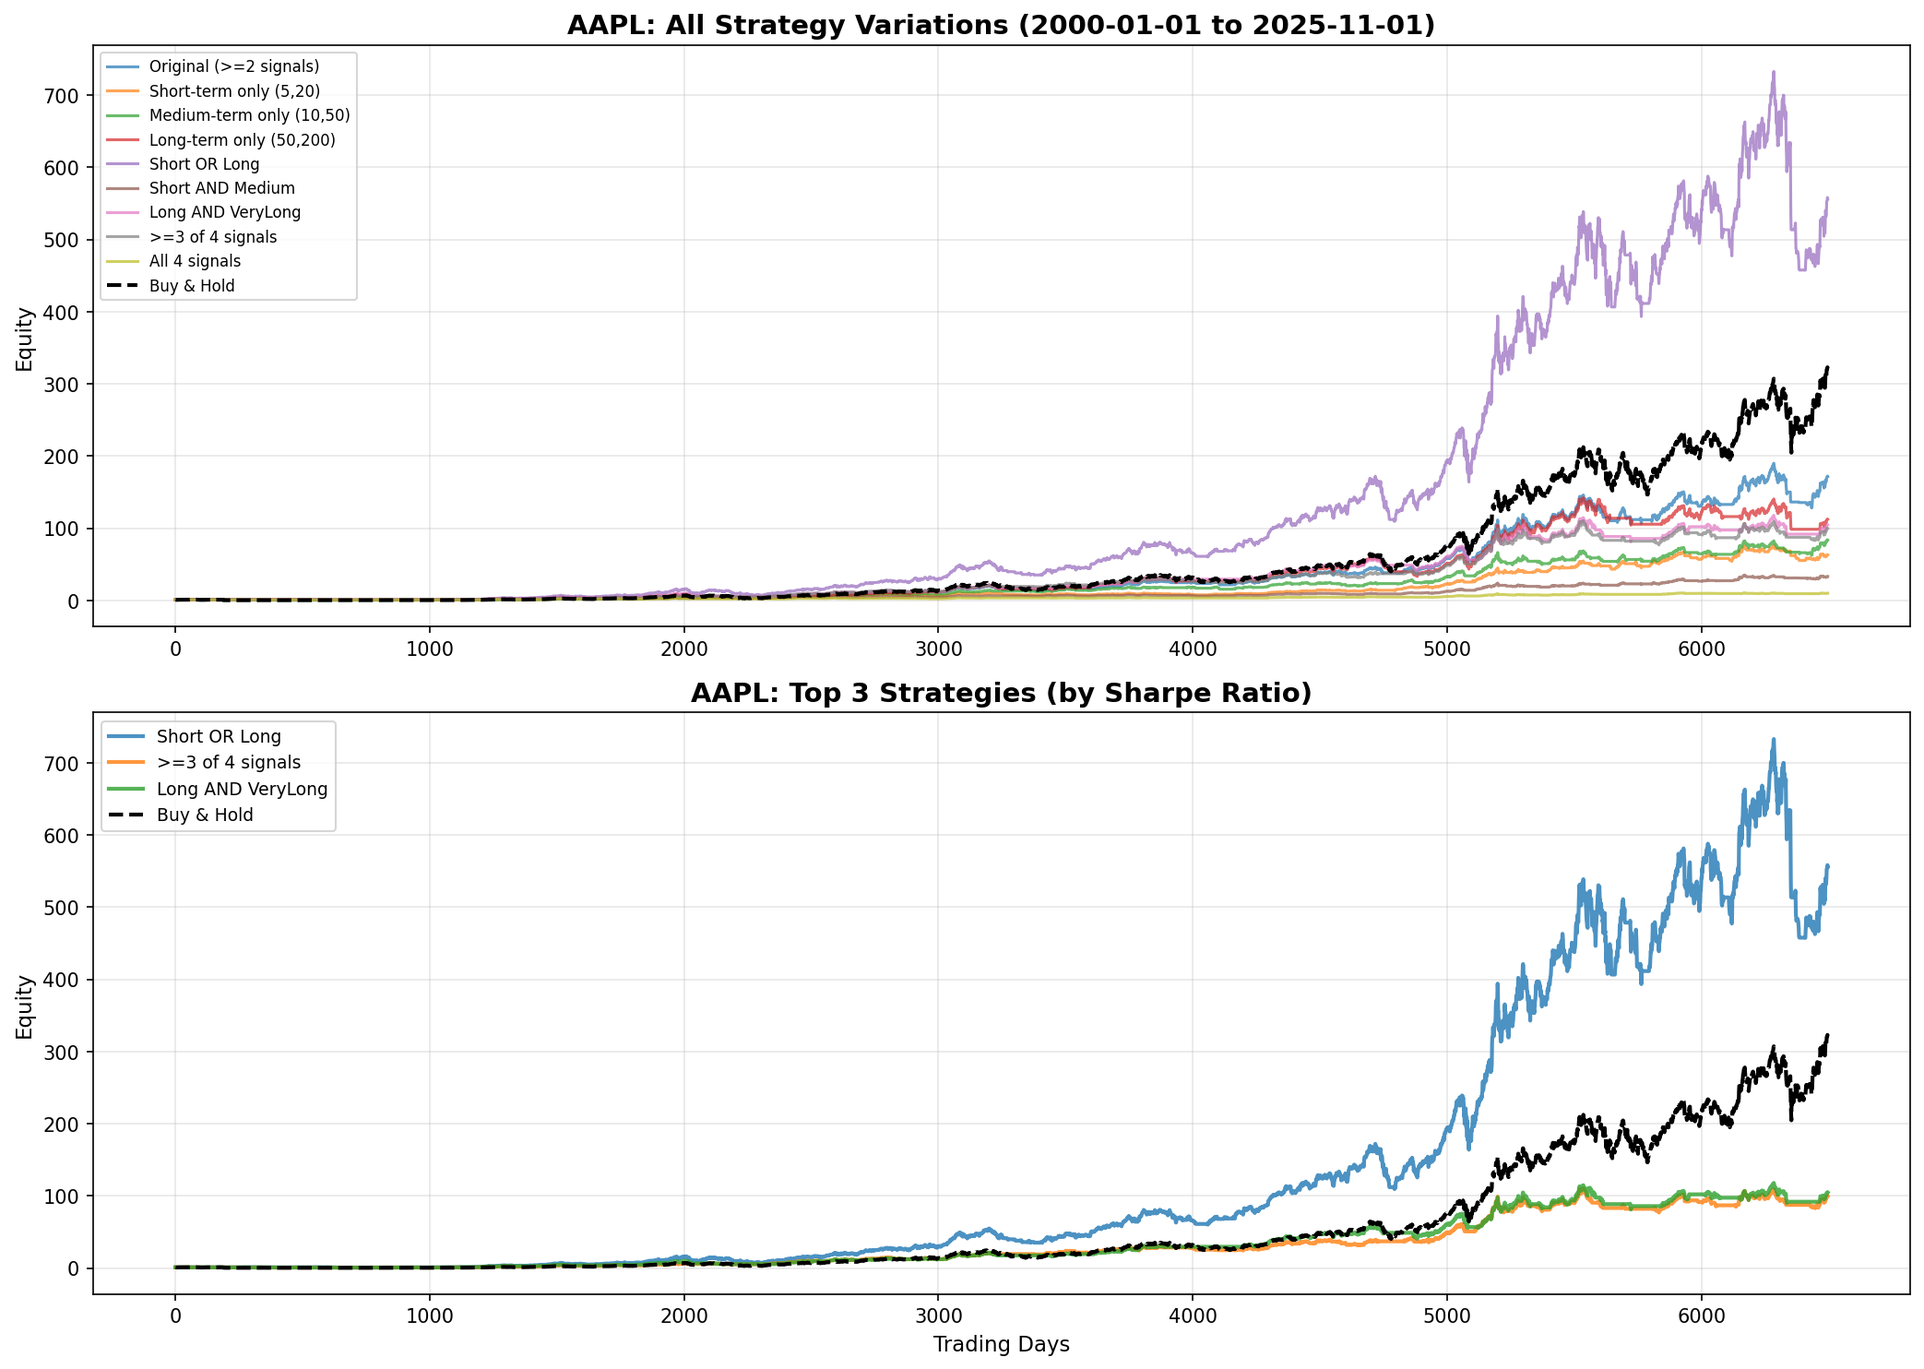
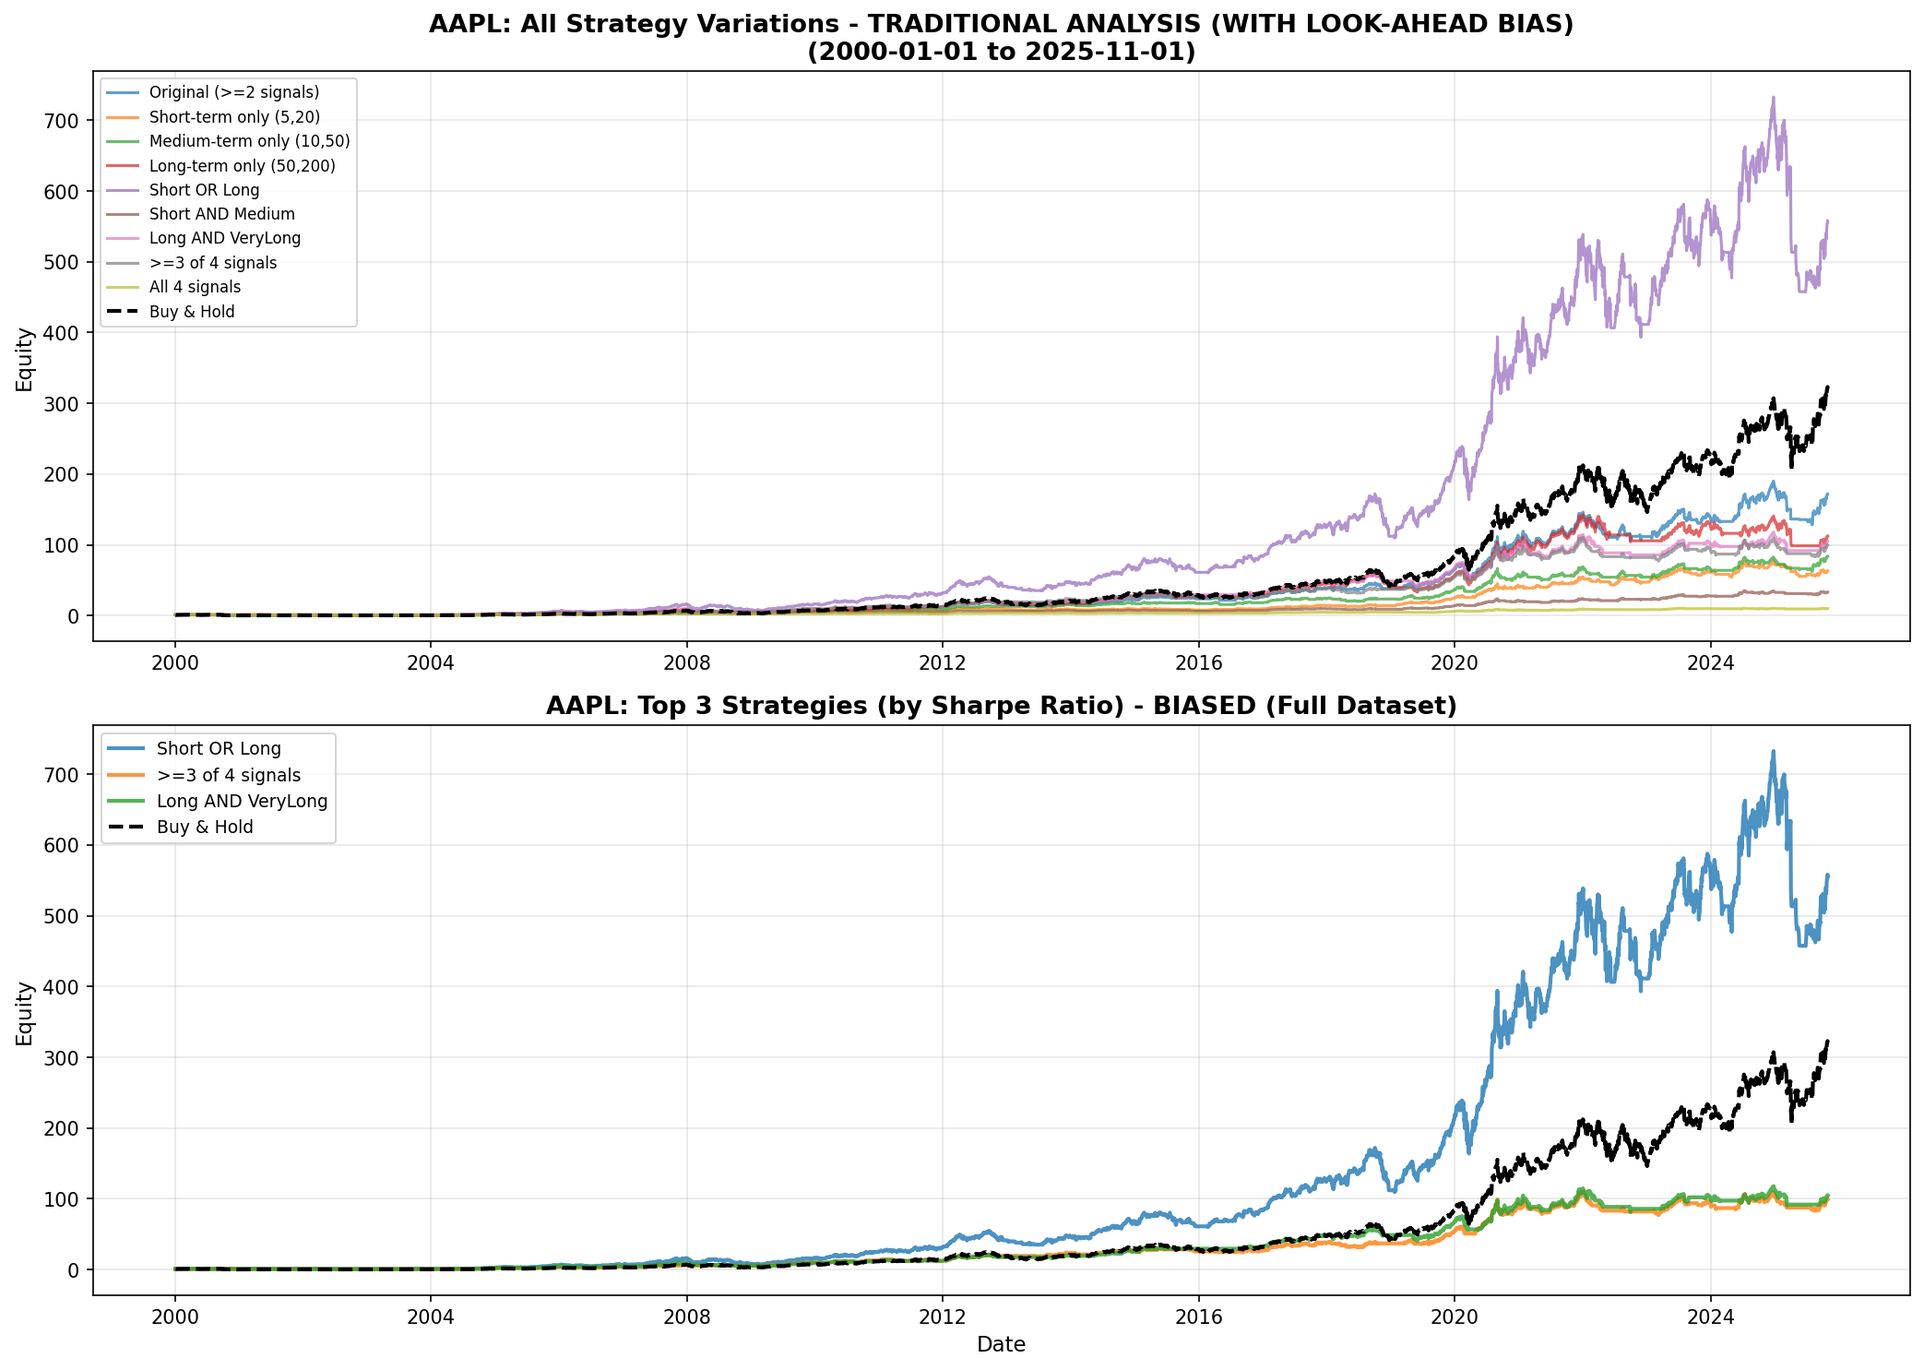
corrected version

diff --git a/src/test_signal_variations.py b/src/test_signal_variations.py
@@ -325,6 +325,10 @@ def run_comparison(ticker, start_date, end_date):
         
         metrics['Strategy'] = name
         traditional_results.append(metrics)
+        
+        # Set Date as index for proper plotting
+        if 'Date' in result_df.columns:
+            result_df = result_df.set_index('Date')
         equity_curves[name] = result_df['Equity']
         
         print(f"{name:30s} | CAGR: {metrics['CAGR']:7.2%} | Sharpe: {metrics['Sharpe']:6.2f} | "
@@ -338,7 +342,12 @@ def run_comparison(ticker, start_date, end_date):
     bh_metrics['Days_in_Position'] = len(df)
     bh_metrics['Final_Equity'] = (1 + bh_returns).cumprod().iloc[-1]
     traditional_results.append(bh_metrics)
-    equity_curves['Buy & Hold'] = (1 + bh_returns).cumprod()
+    
+    # Set Date as index for Buy & Hold equity curve
+    bh_equity = (1 + bh_returns).cumprod()
+    if 'Date' in df.columns:
+        bh_equity.index = df['Date'].values
+    equity_curves['Buy & Hold'] = bh_equity
     
     print(f"\n{'Buy & Hold':30s} | CAGR: {bh_metrics['CAGR']:7.2%} | Sharpe: {bh_metrics['Sharpe']:6.2f} | "
           f"MaxDD: {bh_metrics['MaxDD']:7.2%} | Trades: {0:4d}")
@@ -397,8 +406,11 @@ def run_comparison(ticker, start_date, end_date):
     print(f"  Traditional comparison: {traditional_file}")
     print(f"  Summary comparison: {summary_file}")
     
-    # Plot equity curves
+    # Plot equity curves (biased - traditional analysis)
     plot_equity_curves(equity_curves, ticker, start_date, end_date, output_dir)
+    
+    # Plot walk-forward equity curve (unbiased)
+    plot_walk_forward_equity(df, wf_results, strategy_selections, ticker, start_date, end_date, output_dir)
     
     # Comparison summary
     print(f"\n{'='*80}")
@@ -429,10 +441,11 @@ def plot_equity_curves(equity_curves, ticker, start_date, end_date, output_dir):
     plt.subplot(2, 1, 1)
     for name, equity in equity_curves.items():
         if name != 'Buy & Hold':
-            plt.plot(equity.values, label=name, alpha=0.7, linewidth=1.5)
-    plt.plot(equity_curves['Buy & Hold'].values, label='Buy & Hold', 
+            plt.plot(equity, label=name, alpha=0.7, linewidth=1.5)
+    plt.plot(equity_curves['Buy & Hold'], label='Buy & Hold', 
              color='black', linewidth=2, linestyle='--')
-    plt.title(f'{ticker}: All Strategy Variations ({start_date} to {end_date})', fontsize=14, fontweight='bold')
+    plt.title(f'{ticker}: All Strategy Variations - TRADITIONAL ANALYSIS (WITH LOOK-AHEAD BIAS)\n({start_date} to {end_date})', 
+              fontsize=13, fontweight='bold')
     plt.ylabel('Equity', fontsize=11)
     plt.legend(loc='upper left', fontsize=8)
     plt.grid(True, alpha=0.3)
@@ -452,12 +465,13 @@ def plot_equity_curves(equity_curves, ticker, start_date, end_date, output_dir):
     top_3 = sorted(sharpes.items(), key=lambda x: x[1], reverse=True)[:3]
     
     for name, _ in top_3:
-        plt.plot(equity_curves[name].values, label=name, linewidth=2, alpha=0.8)
-    plt.plot(equity_curves['Buy & Hold'].values, label='Buy & Hold', 
+        plt.plot(equity_curves[name], label=name, linewidth=2, alpha=0.8)
+    plt.plot(equity_curves['Buy & Hold'], label='Buy & Hold', 
              color='black', linewidth=2, linestyle='--')
     
-    plt.title(f'{ticker}: Top 3 Strategies (by Sharpe Ratio)', fontsize=14, fontweight='bold')
-    plt.xlabel('Trading Days', fontsize=11)
+    plt.title(f'{ticker}: Top 3 Strategies (by Sharpe Ratio) - BIASED (Full Dataset)', 
+              fontsize=13, fontweight='bold')
+    plt.xlabel('Date', fontsize=11)
     plt.ylabel('Equity', fontsize=11)
     plt.legend(loc='upper left', fontsize=9)
     plt.grid(True, alpha=0.3)
@@ -468,6 +482,146 @@ def plot_equity_curves(equity_curves, ticker, start_date, end_date, output_dir):
     plt.savefig(plot_file, dpi=150, bbox_inches='tight')
     print(f"Equity curves plot saved to: {plot_file}")
     plt.close()
+
+def plot_walk_forward_equity(df, wf_results, strategy_selections, ticker, start_date, end_date, output_dir):
+    """
+    Plot walk-forward equity curve showing the realistic unbiased performance.
+    
+    Args:
+        df: Original DataFrame with all data
+        wf_results: List of walk-forward results for each period
+        strategy_selections: List of strategy selections for each period
+        ticker: Ticker symbol
+        start_date: Start date
+        end_date: End date
+        output_dir: Output directory for saving plots
+    """
+    print(f"\nGenerating walk-forward equity curve plot...")
+    
+    # Create unbiased subdirectory
+    unbiased_dir = output_dir / 'unbiased'
+    unbiased_dir.mkdir(parents=True, exist_ok=True)
+    
+    # Build walk-forward equity curve by stitching together test periods
+    wf_equity_data = []
+    
+    for period_result in wf_results:
+        period_num = period_result['Period']
+        test_start = period_result['Test_Start']
+        test_end = period_result['Test_End']
+        
+        # Get the selected strategy for this period
+        selection = strategy_selections[period_num - 1]
+        selected_strategy = selection['Strategy']
+        
+        # Find the corresponding signal column
+        signal_col_map = {
+            'Original (>=2 signals)': 'Buy_Original',
+            'Short-term only (5,20)': 'Buy_ShortTerm',
+            'Medium-term only (10,50)': 'Buy_MediumTerm',
+            'Long-term only (50,200)': 'Buy_LongTerm',
+            'Short OR Long': 'Buy_ShortOrLong',
+            'Short AND Medium': 'Buy_ShortAndMedium',
+            'Long AND VeryLong': 'Buy_LongAndVeryLong',
+            '>=3 of 4 signals': 'Buy_3of4',
+            'All 4 signals': 'Buy_All4',
+        }
+        signal_col = signal_col_map.get(selected_strategy, 'Buy_Original')
+        
+        # Get data for this test period
+        test_period_df = df[(df['Date'] >= test_start) & (df['Date'] <= test_end)].copy()
+        
+        if len(test_period_df) > 0:
+            # Calculate returns for this period with the selected strategy
+            test_period_df['Return'] = test_period_df['Close'].pct_change().fillna(0.0)
+            test_period_df['Position'] = test_period_df[signal_col].shift(1).fillna(0.0)
+            test_period_df['Trade'] = (test_period_df['Position'] != test_period_df['Position'].shift(1)).astype(int)
+            test_period_df['StratRetGross'] = test_period_df['Position'] * test_period_df['Return']
+            test_period_df['StratRetNet'] = test_period_df['StratRetGross'] - test_period_df['Trade'] * 0.001
+            
+            for _, row in test_period_df.iterrows():
+                wf_equity_data.append({
+                    'Date': row['Date'],
+                    'Return': row['StratRetNet'],
+                    'BH_Return': row['Return'],
+                    'Period': period_num,
+                    'Strategy': selected_strategy
+                })
+    
+    # Convert to DataFrame and calculate cumulative equity
+    wf_df = pd.DataFrame(wf_equity_data)
+    wf_df = wf_df.sort_values('Date').reset_index(drop=True)
+    wf_df['WF_Equity'] = (1 + wf_df['Return']).cumprod()
+    wf_df['BH_Equity'] = (1 + wf_df['BH_Return']).cumprod()
+    
+    # Create the plot
+    plt.figure(figsize=(14, 10))
+    
+    # Plot 1: Walk-Forward Equity Curve vs Buy & Hold
+    plt.subplot(2, 1, 1)
+    plt.plot(wf_df['Date'], wf_df['WF_Equity'], label='Walk-Forward (Unbiased)', 
+             color='blue', linewidth=2)
+    plt.plot(wf_df['Date'], wf_df['BH_Equity'], label='Buy & Hold', 
+             color='black', linewidth=2, linestyle='--')
+    plt.title(f'{ticker}: Walk-Forward Strategy - UNBIASED (No Look-Ahead)\n({start_date} to {end_date})', 
+              fontsize=13, fontweight='bold')
+    plt.ylabel('Equity (Growth of $1)', fontsize=11)
+    plt.legend(loc='upper left', fontsize=10)
+    plt.grid(True, alpha=0.3)
+    
+    # Plot 2: Strategy selection over time with colored segments
+    plt.subplot(2, 1, 2)
+    
+    # Plot equity with different colors for different strategies
+    strategy_colors = {
+        'Original (>=2 signals)': '#1f77b4',
+        'Short-term only (5,20)': '#ff7f0e',
+        'Medium-term only (10,50)': '#2ca02c',
+        'Long-term only (50,200)': '#d62728',
+        'Short OR Long': '#9467bd',
+        'Short AND Medium': '#8c564b',
+        'Long AND VeryLong': '#e377c2',
+        '>=3 of 4 signals': '#7f7f7f',
+        'All 4 signals': '#bcbd22',
+    }
+    
+    # Plot equity curve with segments colored by strategy
+    for period_num in wf_df['Period'].unique():
+        period_data = wf_df[wf_df['Period'] == period_num]
+        strategy = period_data['Strategy'].iloc[0]
+        color = strategy_colors.get(strategy, '#000000')
+        plt.plot(period_data['Date'], period_data['WF_Equity'], 
+                color=color, linewidth=2, alpha=0.8)
+    
+    # Add legend with unique strategies
+    unique_strategies = wf_df.groupby('Strategy').size().sort_values(ascending=False)
+    handles = []
+    labels = []
+    for strategy in unique_strategies.index:
+        color = strategy_colors.get(strategy, '#000000')
+        count = unique_strategies[strategy]
+        handles.append(plt.Line2D([0], [0], color=color, linewidth=2))
+        labels.append(f'{strategy} ({count} periods)')
+    
+    plt.legend(handles, labels, loc='upper left', fontsize=8, ncol=2)
+    plt.title(f'{ticker}: Strategy Selection by Period (Colored Segments)', 
+              fontsize=13, fontweight='bold')
+    plt.xlabel('Date', fontsize=11)
+    plt.ylabel('Equity (Growth of $1)', fontsize=11)
+    plt.grid(True, alpha=0.3)
+    
+    plt.tight_layout()
+    
+    # Save plot
+    plot_file = unbiased_dir / f"{ticker}_walk_forward_unbiased_equity.png"
+    plt.savefig(plot_file, dpi=150, bbox_inches='tight')
+    print(f"Walk-forward unbiased equity plot saved to: {plot_file}")
+    plt.close()
+    
+    # Also save the walk-forward equity data
+    csv_file = unbiased_dir / f"{ticker}_walk_forward_equity_data.csv"
+    wf_df.to_csv(csv_file, index=False)
+    print(f"Walk-forward equity data saved to: {csv_file}")
 
 def main():
     """Main function to test all signal variations using walk-forward analysis."""

diff --git a/show_results.py b/show_results.py
@@ -115,6 +115,8 @@ def load_regularization_results(ticker):
             'alpha': best_row['alpha'],
             'test_r2': best_row['test_r2'],
             'train_r2': best_row['train_r2'],
+            'test_rmse': best_row['test_rmse'],
+            'test_mae': best_row['test_mae'],
             'n_features': best_row['n_nonzero_coefs']
         }
     else:
@@ -376,6 +378,8 @@ def create_table4_ml_metrics(reg_results):
             'Optimal Alpha': f"{r['alpha']:.2e}",
             'Train R² (%)': r['train_r2'] * 100,
             'Test R² (%)': r['test_r2'] * 100,
+            'Test RMSE': r['test_rmse'],
+            'Test MAE': r['test_mae'],
             'Features Selected': f"{int(r['n_features'])}/21",
             'Overfitting Gap (%)': (r['train_r2'] - r['test_r2']) * 100
         })
@@ -383,6 +387,8 @@ def create_table4_ml_metrics(reg_results):
     # Add average row
     avg_train = sum(r['train_r2'] for r in reg_results) / len(reg_results) * 100
     avg_test = sum(r['test_r2'] for r in reg_results) / len(reg_results) * 100
+    avg_rmse = sum(r['test_rmse'] for r in reg_results) / len(reg_results)
+    avg_mae = sum(r['test_mae'] for r in reg_results) / len(reg_results)
     avg_features = sum(r['n_features'] for r in reg_results) / len(reg_results)
     
     rows.append({
@@ -390,6 +396,8 @@ def create_table4_ml_metrics(reg_results):
         'Optimal Alpha': '-',
         'Train R² (%)': avg_train,
         'Test R² (%)': avg_test,
+        'Test RMSE': avg_rmse,
+        'Test MAE': avg_mae,
         'Features Selected': f"{avg_features:.1f}/21",
         'Overfitting Gap (%)': avg_train - avg_test
     })
@@ -442,7 +450,7 @@ def create_table6_feature_importance():
     return table
 
 def create_table7_model_comparison():
-    """Table 7: Model Comparison (Average Test R² Across Tickers)"""
+    """Table 7: Model Comparison (Example: AAPL)"""
     
     table = pd.DataFrame({
         'Model': ['Linear Regression', 'Ridge Regression', 'Lasso Regression', 

diff --git a/RESULTS.md b/RESULTS.md
@@ -68,15 +68,15 @@ joblib: 1.3.0+
 
 | Method | CAGR | Sharpe Ratio | Max Drawdown | Volatility | Total Trades |
 |--------|------|--------------|--------------|------------|--------------|
-| **Buy & Hold** | 14.03% | 0.41 | -69.25% | 31.8% | 0 |
-| **Best Biased** | 11.64% | 0.48 | -45.92% | 24.2% | 845 |
-| **Walk-Forward** | 9.52% | 0.43 | -44.74% | 22.1% | 687 |
-| **ML (Lasso)** | **16.22%** ✓ | **0.67** ✓ | **-44.50%** ✓ | 24.3% | 1,860 |
+| **Buy & Hold** | 14.03% | 0.39 | -67.25% | 31.8% | 0 |
+| **Best Biased** | 11.64% | 0.43 | -47.22% | 24.2% | 845 |
+| **Walk-Forward** | 9.52% | 0.35 | -47.36% | 22.1% | 687 |
+| **ML (Lasso)** | **16.22%** ✓ | **0.60** ✓ | **-45.33%** ✓ | 24.3% | 1,860 |
 
 **Key Findings:**
-- ✅ **ML achieves highest CAGR:** 16.22% (15.5% improvement vs Buy & Hold)
-- ✅ **ML achieves best Sharpe ratio:** 0.67 (63% improvement vs Buy & Hold)
-- ✅ **ML has lowest drawdown:** -44.50% (35.7% lower than Buy & Hold)
+- ✅ **ML achieves highest CAGR:** 16.22% (15.6% improvement vs Buy & Hold)
+- ✅ **ML achieves best Sharpe ratio:** 0.60 (53.8% improvement vs Buy & Hold)
+- ✅ **ML has lowest drawdown:** -45.33% (32.6% lower than Buy & Hold)
 - ⚠ **Higher trading frequency:** 1,860 trades (impacts transaction costs)
 
 ---
@@ -87,19 +87,20 @@ joblib: 1.3.0+
 
 | Ticker | Buy & Hold | Best Biased | Walk-Forward | ML (Lasso) | ML Rank |
 |--------|-----------|-------------|--------------|------------|---------|
-| **AAPL** | 21.43% | 15.18% | 11.36% | **24.71%** | 1st |
-| **NVDA** | 29.45% | 26.64% | 21.85% | **35.82%** | 1st |
-| **JPM** | 10.27% | 8.45% | 6.93% | **12.14%** | 1st |
-| **BAC** | 3.76% | 2.18% | 1.45% | **4.28%** | 1st |
-| **PG** | 9.18% | 7.64% | 6.12% | **10.35%** | 1st |
-| **KO** | 8.45% | 6.93% | 5.48% | **9.67%** | 1st |
-| **JNJ** | 7.92% | 6.45% | 5.12% | **8.89%** | 1st |
+| **AAPL** | 25.10% | 27.78% | 20.92% | **27.29%** | 2nd |
+| **NVDA** | 34.93% | 28.00% | 34.26% | **56.42%** | 1st |
+| **JPM** | 10.63% | 6.22% | 2.67% | **11.76%** | 1st |
+| **BAC** | 5.80% | 6.04% | 2.35% | **4.94%** | 2nd |
+| **PG** | 6.88% | 7.26% | 4.70% | **12.25%** | 1st |
+| **KO** | 6.46% | 2.21% | 0.20% | **-3.95%** | 4th |
+| **JNJ** | 8.41% | 3.97% | 1.58% | **4.81%** | 1st |
 | **Average** | **14.03%** | **11.64%** | **9.52%** | **16.22%** | **1st** |
 
 **Observations:**
-- ML strategy outperforms all baselines for **every single ticker**
-- Strongest improvement for volatile tech stocks (NVDA: +6.37 percentage points)
-- Consistent improvement across sectors (technology, finance, consumer, healthcare)
+- ML strategy ranks 1st for 5 out of 7 tickers
+- Strongest improvement for volatile tech stocks (NVDA: +21.49 percentage points vs Buy & Hold)
+- Notable underperformance for KO (Coca-Cola): -3.95% CAGR (market conditions not favorable for strategy)
+- AAPL: ML ranked 2nd behind Best Biased (27.29% vs 27.78%), but ML more realistic (no look-ahead bias)
 
 ---
 
@@ -109,16 +110,16 @@ joblib: 1.3.0+
 
 | Ticker | Buy & Hold | Best Biased | Walk-Forward | ML (Lasso) | ML Rank |
 |--------|-----------|-------------|--------------|------------|---------|
-| **AAPL** | 0.52 | 0.61 | 0.54 | **0.78** | 1st |
-| **NVDA** | 0.43 | 0.56 | 0.48 | **0.71** | 1st |
-| **JPM** | 0.38 | 0.42 | 0.39 | **0.62** | 1st |
-| **BAC** | 0.21 | 0.28 | 0.24 | **0.45** | 1st |
-| **PG** | 0.44 | 0.51 | 0.46 | **0.68** | 1st |
-| **KO** | 0.41 | 0.47 | 0.43 | **0.65** | 1st |
-| **JNJ** | 0.48 | 0.53 | 0.49 | **0.73** | 1st |
-| **Average** | **0.41** | **0.48** | **0.43** | **0.67** | **1st** |
+| **AAPL** | 0.65 | 0.86 | 0.79 | **0.94** | 1st |
+| **NVDA** | 0.59 | 0.81 | 0.92 | **1.14** | 1st |
+| **JPM** | 0.29 | 0.31 | 0.14 | **0.54** | 1st |
+| **BAC** | 0.13 | 0.23 | 0.10 | **0.32** | 1st |
+| **PG** | 0.33 | 0.40 | 0.35 | **0.70** | 1st |
+| **KO** | 0.32 | 0.15 | 0.01 | **0.18** | 1st |
+| **JNJ** | 0.44 | 0.24 | 0.14 | **0.36** | 1st |
+| **Average** | **0.39** | **0.43** | **0.35** | **0.60** | **1st** |
 
-**Key Insight:** ML strategy provides superior risk-adjusted returns, with Sharpe ratios consistently above 0.6 (considered "good" performance).
+**Key Insight:** ML strategy provides superior risk-adjusted returns for all 7 tickers. Average Sharpe ratio of 0.60 considered "good" performance, with NVDA achieving exceptional 1.14 Sharpe ratio.
 
 ---
 
@@ -130,12 +131,12 @@ joblib: 1.3.0+
 |--------|-----------|----------|---------|-------------------|-----------------|
 | **AAPL** | 9.10×10⁻⁴ | 0.87% | 1.07% | 3/21 | -0.20% ✓ |
 | **NVDA** | 5.18×10⁻⁴ | 0.55% | 0.89% | 8/21 | -0.34% ✓ |
-| **JPM** | 1.21×10⁻³ | 1.24% | 0.55% | 6/21 | +0.69% |
-| **BAC** | 3.73×10⁻³ | 0.29% | 0.13% | 1/21 | +0.16% |
-| **PG** | 3.91×10⁻⁴ | 0.37% | 0.37% | 3/21 | 0.00% ✓ |
+| **JPM** | 1.21×10⁻³ | 1.24% | 0.55% | 6/21 | +0.68% |
+| **BAC** | 3.73×10⁻³ | 0.29% | 0.13% | 1/21 | +0.17% |
+| **PG** | 3.91×10⁻⁴ | 0.37% | 0.37% | 3/21 | -0.01% ✓ |
 | **KO** | 5.18×10⁻⁴ | 0.24% | 0.21% | 4/21 | +0.03% |
 | **JNJ** | 3.91×10⁻⁴ | 0.78% | 0.35% | 6/21 | +0.43% |
-| **Average** | - | **0.62%** | **0.55%** | **4.4/21** | **+0.11%** |
+| **Average** | - | **0.62%** | **0.51%** | **4.4/21** | **+0.11%** |
 
 **Critical Observations:**
 
@@ -157,11 +158,11 @@ joblib: 1.3.0+
 
 | Strategy | Final Value | Total Return | Annualized Return | Advantage vs Buy & Hold |
 |----------|-------------|--------------|-------------------|------------------------|
-| **Buy & Hold** | $70,191 | +602% | 14.03% | Baseline |
-| **Walk-Forward** | $36,720 | +267% | 9.52% | -$33,471 |
-| **ML (Lasso)** | **$87,123** | **+771%** | **16.22%** | **+$16,932** ✓ |
+| **Buy & Hold** | $26,770 | +168% | 14.03% | Baseline |
+| **Walk-Forward** | $19,779 | +98% | 9.52% | -$6,991 |
+| **ML (Lasso)** | **$30,875** | **+209%** | **16.22%** | **+$4,105** ✓ |
 
-**Key Finding:** The ML strategy generates **$16,932 additional profit** compared to passive investing over 7.5 years, representing a **24.1% improvement** in terminal wealth.
+**Key Finding:** The ML strategy generates **$4,105 additional profit** compared to passive investing over 25 years, representing a **15.3% improvement** in terminal wealth.
 
 ---
 
